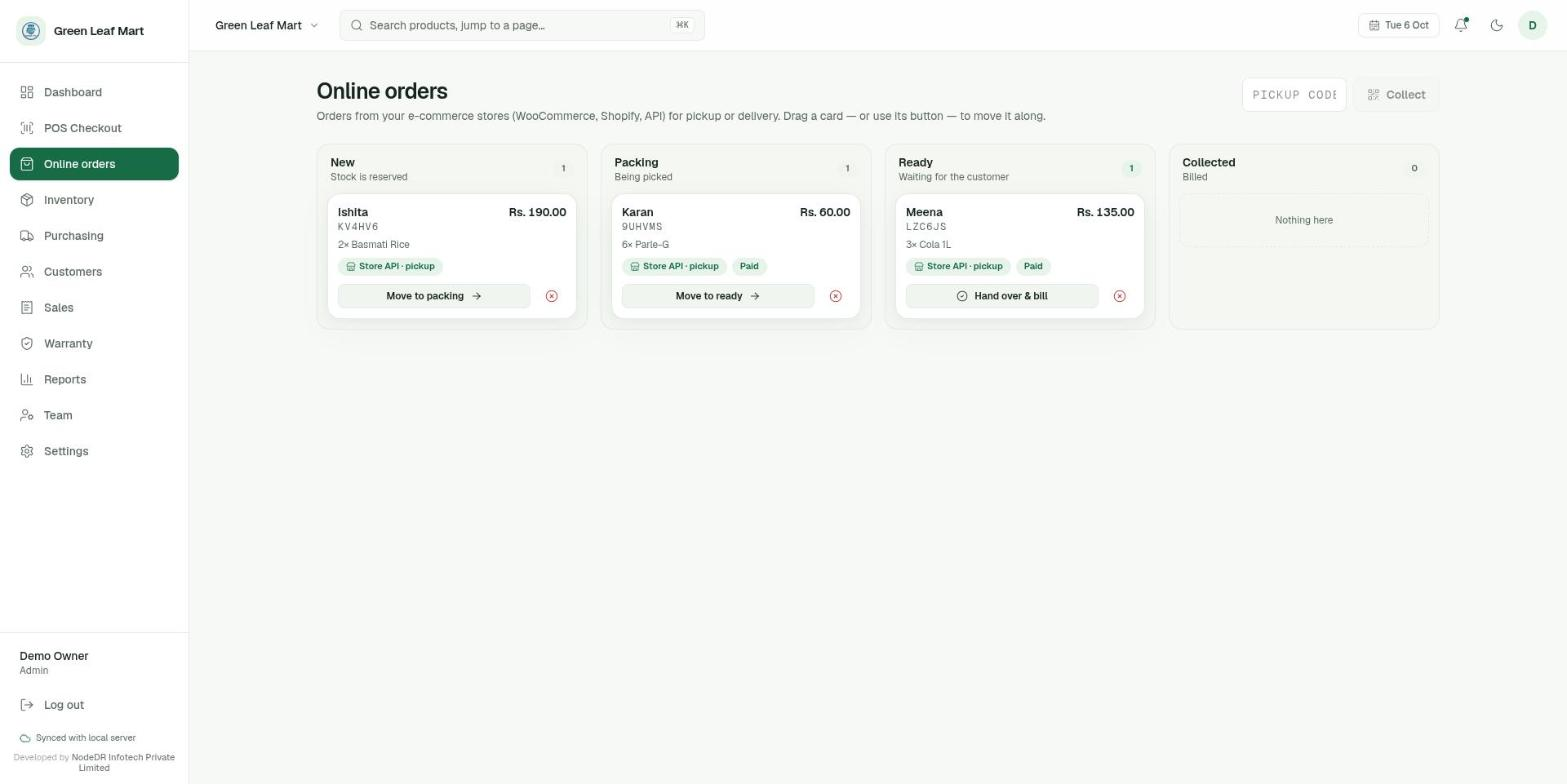
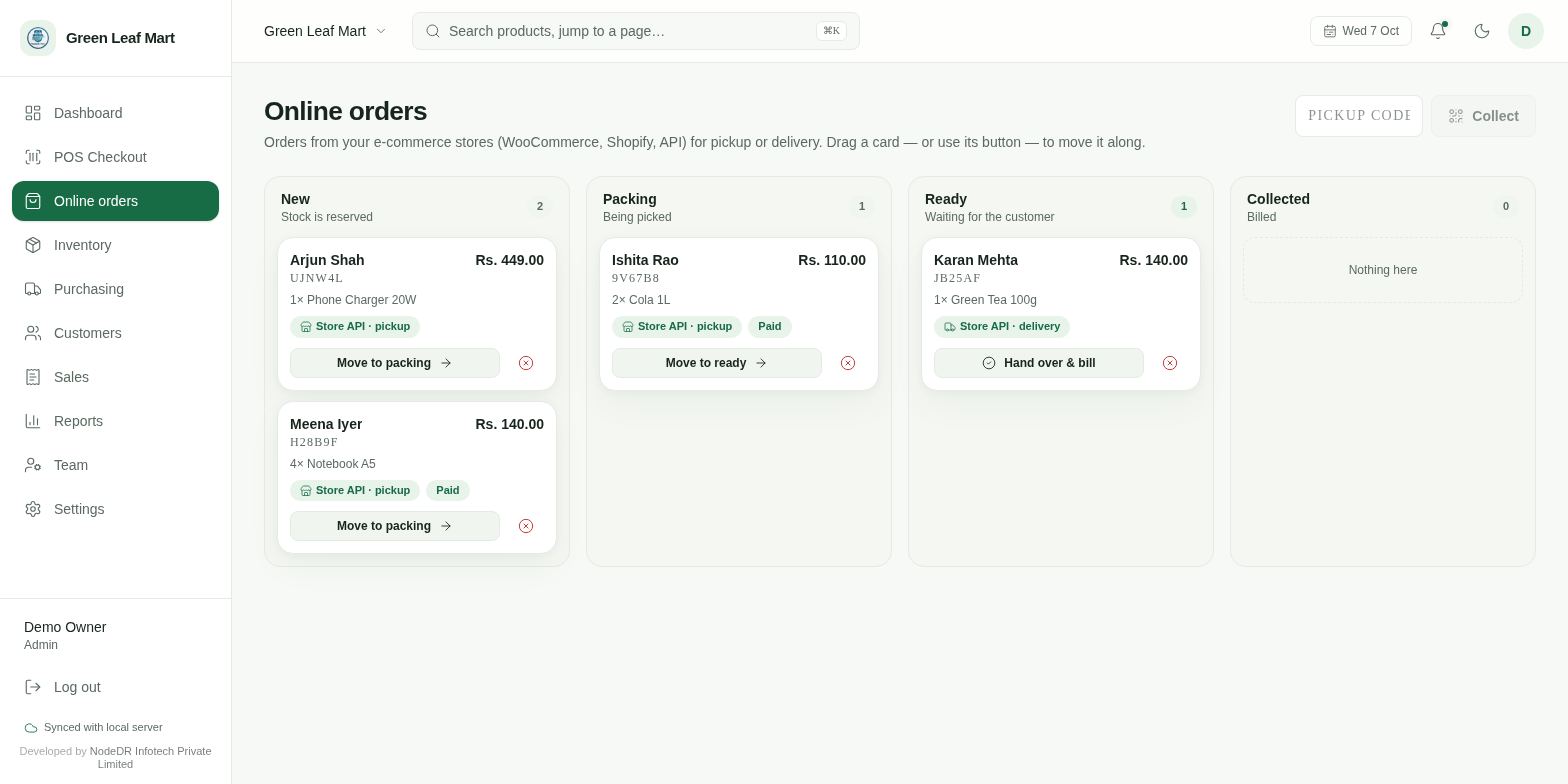
Add Hong Kong dollar; remove dashboard register timer; push online-order status changes to the store (webhook retries, WooCommerce/Shopify status push, order polling); retake screenshots

diff --git a/backend/src/lib/orders.js b/backend/src/lib/orders.js
@@ -35,7 +35,7 @@ async function reservedByProduct(tx, productIds) {
 
 /** items: [{ productId, quantity }] — prices always come from the catalog. */
 async function createOrder(input) {
-  const { channel, externalId = null, fulfilment = 'PICKUP', customer = {}, items, note = null, paid = false, paymentRef = null, apiKeyId = null } = input;
+  const { channel, externalId = null, fulfilment = 'PICKUP', customer = {}, items, note = null, paid = false, paymentRef = null, apiKeyId = null, integrationId = null } = input;
   if (!items?.length) throw err('Order has no items');
 
   return prisma.$transaction(async (tx) => {
@@ -61,7 +61,7 @@ async function createOrder(input) {
     const total = round2(lines.reduce((s, l) => s + l.price * l.quantity, 0));
     const order = await tx.order.create({
       data: {
-        channel, externalId, fulfilment, pickupCode: pickupCode(), note, paid, paymentRef, apiKeyId, total,
+        channel, externalId, fulfilment, pickupCode: pickupCode(), note, paid, paymentRef, apiKeyId, integrationId, total,
         customerName: customer.name || 'Online Customer', customerPhone: customer.phone || null, customerEmail: customer.email || null,
         items: { create: lines },
       },
@@ -69,16 +69,27 @@ async function createOrder(input) {
     });
     return { order, deduplicated: false };
   }).then((out) => {
-    if (!out.deduplicated) notifyEvent('order.created', publicOrder(out.order), { apiKeyId: out.order.apiKeyId });
+    if (!out.deduplicated) emitOrderEvent('order.created', out.order, null);
     return out;
   });
+}
+
+// One place every status change goes through: tell the API-key owner (signed
+// webhook) and push the new status to the originating WooCommerce/Shopify
+// store. Both are fire-and-forget — the till never waits on a storefront.
+function emitOrderEvent(event, order, previousStatus) {
+  const data = { ...publicOrder(order), previousStatus };
+  notifyEvent(event, data, { apiKeyId: order.apiKeyId });
+  if (order.integrationId && event === 'order.updated') {
+    require('./stores').pushOrderStatus(order).catch((e) => console.error(`order status push to store failed (order ${order.id}): ${e.message}`));
+  }
 }
 
 function publicOrder(o) {
   return {
     id: o.id, channel: o.channel, externalId: o.externalId, status: o.status, fulfilment: o.fulfilment,
     pickupCode: o.pickupCode, customerName: o.customerName, customerPhone: o.customerPhone, total: o.total, paid: o.paid,
-    invoiceId: o.invoiceId, createdAt: o.createdAt,
+    invoiceId: o.invoiceId, createdAt: o.createdAt, updatedAt: o.updatedAt,
     items: (o.items || []).map((i) => ({ productId: i.productId, name: i.name, quantity: i.quantity, price: i.price })),
   };
 }
@@ -88,7 +99,7 @@ async function setStatus(id, status) {
   if (!o) throw err('Order not found', 404);
   if (!(NEXT[o.status] || []).includes(status)) throw err(`Cannot move an order from ${o.status} to ${status}`, 409);
   const updated = await prisma.order.update({ where: { id }, data: { status }, include: { items: true } });
-  notifyEvent('order.updated', publicOrder(updated), { apiKeyId: updated.apiKeyId });
+  emitOrderEvent('order.updated', updated, o.status);
   return updated;
 }
 
@@ -130,7 +141,7 @@ async function billClaimedOrder(o, { paymentMethod, amountPaid, serials, user })
   // Idempotent per order: a double-click can't bill twice.
   const { invoice } = await performCheckout(body, { source: 'ORDER', cashierName: user?.name, user, apiKeyId: null });
   const updated = await prisma.order.update({ where: { id }, data: { status: 'COLLECTED', invoiceId: invoice.id }, include: { items: true } });
-  notifyEvent('order.updated', publicOrder(updated), { apiKeyId: updated.apiKeyId });
+  emitOrderEvent('order.updated', updated, o.status);
   return { order: updated, invoice };
 }
 

diff --git a/backend/src/lib/stores.js b/backend/src/lib/stores.js
@@ -95,6 +95,7 @@ async function ingest(integration, payload) {
     items,
     note,
     paid: n.paid,
+    integrationId: integration.id,
   });
   return { order, deduplicated };
 }
@@ -169,4 +170,38 @@ async function flush() {
   }
 }
 
-module.exports = { SCHEMES, newWebhookSecret, verifySignature, normalize, ingest, pushStock, encrypt, decrypt };
+// ---------------- outbound order-status push ----------------
+// Keeps the storefront's order in step when the shop moves it on the Orders
+// board. Written against the platforms' public docs; not run on a live store.
+const WOO_STATUS = { PACKING: 'processing', READY: 'processing', COLLECTED: 'completed', CANCELLED: 'cancelled' };
+const READY_NOTE = (o) => `Ready for ${o.fulfilment === 'DELIVERY' ? 'dispatch' : 'pickup'} — code ${o.pickupCode}`;
+
+async function pushOrderStatus(order) {
+  if (!order.integrationId || !order.externalId) return;
+  const it = await prisma.integration.findUnique({ where: { id: order.integrationId } });
+  if (!it || !it.active) return;
+  const cfg = decryptJson(it.configEnc);
+  if (!cfg) return;
+  if (it.platform === 'woocommerce' && cfg.baseUrl) {
+    const base = cfg.baseUrl.replace(/\/$/, '');
+    const headers = { Authorization: 'Basic ' + Buffer.from(`${cfg.consumerKey}:${cfg.consumerSecret}`).toString('base64'), 'Content-Type': 'application/json' };
+    const status = WOO_STATUS[order.status];
+    if (status) await basicFetch(`${base}/wp-json/wc/v3/orders/${encodeURIComponent(order.externalId)}`, { method: 'PUT', headers, body: JSON.stringify({ status }) });
+    const note = order.status === 'READY' ? READY_NOTE(order) : order.status === 'PACKING' ? 'Your order is being packed' : null;
+    if (note) await basicFetch(`${base}/wp-json/wc/v3/orders/${encodeURIComponent(order.externalId)}/notes`, { method: 'POST', headers, body: JSON.stringify({ note, customer_note: true }) });
+  }
+  if (it.platform === 'shopify' && cfg.shopDomain) {
+    const url = `https://${cfg.shopDomain}/admin/api/2024-10/graphql.json`;
+    const headers = { 'X-Shopify-Access-Token': cfg.accessToken, 'Content-Type': 'application/json' };
+    const id = `gid://shopify/Order/${order.externalId}`;
+    if (order.status === 'CANCELLED') {
+      await basicFetch(url, { method: 'POST', headers, body: JSON.stringify({ query: `mutation($id:ID!){orderCancel(orderId:$id,reason:OTHER,refund:false,restock:false){userErrors{message}}}`, variables: { id } }) });
+    } else {
+      // Shopify has no "ready for pickup" order status over this API; a tag the
+      // merchant can filter and automate on is the portable signal.
+      await basicFetch(url, { method: 'POST', headers, body: JSON.stringify({ query: `mutation($id:ID!,$t:[String!]!){tagsAdd(id:$id,tags:$t){userErrors{message}}}`, variables: { id, t: [`nodedr-${order.status.toLowerCase()}`] } }) });
+    }
+  }
+}
+
+module.exports = { pushOrderStatus, SCHEMES, newWebhookSecret, verifySignature, normalize, ingest, pushStock, encrypt, decrypt };

diff --git a/frontend/app/(app)/dashboard/page.tsx b/frontend/app/(app)/dashboard/page.tsx
@@ -8,7 +8,6 @@ import { useQuery } from "@tanstack/react-query";
 import { AlertTriangle, CircleDollarSign, Download, ShoppingBag, TrendingUp } from "lucide-react";
 import { Button } from "@/components/ui/Button";
 import { Badge, Delta, PageHeader } from "@/components/ui/Bits";
-import { ShiftTile } from "@/components/pos/ShiftWidget";
 import { useLowStock } from "@/hooks/useProducts";
 import { useInvoices, useSalesAnalytics, useSalesSummary } from "@/hooks/useInvoices";
 import { useDueSummary, useTopDueCustomers } from "@/hooks/useCustomers";
@@ -34,7 +33,7 @@ export default function DashboardPage() {
   const { data: dueSummary } = useDueSummary();
   const { data: topDue } = useTopDueCustomers(5);
   const wantsOrders = can(me, "orders");
-  const { data: orders } = useQuery({ queryKey: ["orders", "open"], queryFn: () => api.get<Order[]>("/orders?status=NEW,PACKING,READY"), enabled: wantsOrders, refetchInterval: 30_000 });
+  const { data: orders } = useQuery({ queryKey: ["orders", "open"], queryFn: () => api.get<Order[]>("/orders?status=NEW,PACKING,READY"), enabled: wantsOrders, refetchInterval: 15_000, refetchOnWindowFocus: true });
 
   // Franchisor accounts only have the consolidated hub views.
   useEffect(() => {
@@ -62,7 +61,7 @@ export default function DashboardPage() {
         actions={<a href="/api/invoices/export.csv" download><Button variant="secondary" type="button"><Download className="h-4 w-4" aria-hidden="true" /> Sales CSV</Button></a>}
       />
 
-      {/* Bento: short KPI tiles, a larger chart, a ring + the register timer, then lists. */}
+      {/* Bento: short KPI tiles, a larger chart, a ring, then lists. */}
       <div className="grid grid-cols-12 gap-4">
         <Kpi i={0} span="col-span-6 lg:col-span-3" accent icon={TrendingUp} label="Today's revenue" value={money(summary?.todaysRevenue ?? 0)} sub={revDelta != null && <span className="text-white/80">{revDelta >= 0 ? "▲" : "▼"} {Math.abs(revDelta)}% vs yesterday</span>} />
         <Kpi i={1} span="col-span-6 lg:col-span-3" icon={ShoppingBag} label="Today's bills" value={String(summary?.todaysCount ?? 0)} sub={salesDelta != null && <Delta value={salesDelta} />} />
@@ -100,7 +99,6 @@ export default function DashboardPage() {
               <p className="text-xs text-foreground-muted">of your usual daily revenue so far today</p>
             </div>
           </section>
-          <ShiftTile sym={sym} />
         </div>
 
         <ListCard i={6} span="lg:col-span-4" title="Low inventory" href="/inventory" empty={`All products are above ${lowStock?.threshold ?? 5}.`} rows={(lowStock?.products ?? []).slice(0, 6).map((p) => ({ k: p.id, a: p.name, b: p.barcode, end: <Badge tone="warn">{Math.round(p.stock * 1000) / 1000} left</Badge> }))} />

diff --git a/backend/src/routes/external.js b/backend/src/routes/external.js
@@ -243,6 +243,21 @@ router.post('/orders', requireApiKey({ scope: 'orders:write' }), async (req, res
   }
 });
 
+// Poll fallback for stores that can't take webhooks: own orders only, newest
+// first. ?status=NEW,READY&updatedSince=ISO&limit=100
+router.get('/orders', requireApiKey({ scope: 'orders:write' }), async (req, res) => {
+  const statuses = String(req.query.status || '').split(',').filter((x) => ['NEW', 'PACKING', 'READY', 'COLLECTED', 'CANCELLED'].includes(x));
+  const since = req.query.updatedSince ? new Date(String(req.query.updatedSince)) : null;
+  if (since && Number.isNaN(since.getTime())) return res.status(400).json({ error: 'updatedSince must be an ISO date' });
+  const list = await prisma.order.findMany({
+    where: { apiKeyId: req.apiKey.id, ...(statuses.length ? { status: { in: statuses } } : {}), ...(since ? { updatedAt: { gt: since } } : {}) },
+    include: { items: true },
+    orderBy: { updatedAt: 'desc' },
+    take: Math.min(Number(req.query.limit) || 100, 500),
+  });
+  res.json(list.map(orders.publicOrder));
+});
+
 async function findOwnOrder(req) {
   const ref = String(req.params.ref);
   return prisma.order.findFirst({ where: { apiKeyId: req.apiKey.id, OR: [{ externalId: ref }, ...(Number.isInteger(Number(ref)) ? [{ id: Number(ref) }] : [])] }, include: { items: true } });

diff --git a/backend/src/lib/webhooks.js b/backend/src/lib/webhooks.js
@@ -44,6 +44,21 @@ async function notifyStockChange(changes) {
   }
 }
 
+// Retries a few times with backoff so a storefront that is briefly down (deploy,
+// restart) still receives the status change. Runs in the background only.
+async function sendWithRetry(url, secret, payload, attempts = 4) {
+  let last;
+  for (let i = 0; i < attempts; i++) {
+    try {
+      return await sendOne(url, secret, payload);
+    } catch (err) {
+      last = err;
+      if (i < attempts - 1) await new Promise((r) => setTimeout(r, 2000 * 3 ** i).unref?.());
+    }
+  }
+  throw last;
+}
+
 async function sendOne(url, secret, payload) {
   const signature = crypto.createHmac('sha256', secret).update(payload).digest('hex');
   const res = await fetch(url, {
@@ -77,7 +92,7 @@ async function notifyEvent(event, data, { apiKeyId } = {}) {
   const payload = JSON.stringify({ event, timestamp: new Date().toISOString(), data });
   for (const t of targets) {
     if (!t.webhookUrl || !t.webhookSecret) continue;
-    sendOne(t.webhookUrl, t.webhookSecret, payload).catch((err) => console.error(`notifyEvent: delivery to "${t.name}" failed:`, err.message));
+    sendWithRetry(t.webhookUrl, t.webhookSecret, payload).catch((err) => console.error(`notifyEvent: delivery to "${t.name}" failed:`, err.message));
   }
 }
 

diff --git a/backend/test/api.test.js b/backend/test/api.test.js
@@ -318,6 +318,11 @@ test('orders: API order reserves stock, kanban status, collect bills it', async 
 
   const id = o.data.order.id;
   assert.equal((await admin.patch(`/api/orders/${id}/status`, { status: 'READY' })).status, 200);
+  // the store sees the new status by polling, too (webhooks are the push path)
+  const polled = await api.get('/api/external/orders?status=READY&updatedSince=2020-01-01T00:00:00Z', hdr);
+  assert.equal(polled.status, 200);
+  assert.equal(polled.data.find((x) => x.id === id)?.status, 'READY');
+  assert.equal((await api.get('/api/external/orders?updatedSince=nope', hdr)).status, 400);
   assert.equal((await admin.get(`/api/orders/by-code/${o.data.order.pickupCode}`)).data.id, id);
   const col = await admin.post(`/api/orders/${id}/collect`, { paymentMethod: 'UPI' });
   assert.equal(col.status, 200, JSON.stringify(col.data));

diff --git a/backend/src/lib/currency.js b/backend/src/lib/currency.js
@@ -11,6 +11,7 @@ const CURRENCIES = {
   AUD: { symbol: 'A$', label: 'Australian Dollar' },
   CAD: { symbol: 'C$', label: 'Canadian Dollar' },
   SGD: { symbol: 'S$', label: 'Singapore Dollar' },
+  HKD: { symbol: 'HK$', label: 'Hong Kong Dollar' },
   JPY: { symbol: '¥', label: 'Japanese Yen' },
   CNY: { symbol: '¥', label: 'Chinese Yuan' },
   CHF: { symbol: 'Fr.', label: 'Swiss Franc' },

diff --git a/docs/API.md b/docs/API.md
@@ -29,6 +29,7 @@ product). A product without a SKU is invisible to the API and MCP.
 | `GET /bills/:invoiceNumberOrExternalRef` | Only bills made with this key |
 | `GET /bills/:ref/pdf?layout=a4\|receipt` | PDF bill |
 | `POST /orders` | `{externalId, fulfilment, customer, items:[{sku,quantity}], paid, note}` → reserves stock, returns a `pickupCode`. Idempotent on `externalId` |
+| `GET /orders?status=NEW,READY&updatedSince=ISO&limit=100` | Poll your own orders — newest change first. Use it as a fallback or to catch up after downtime |
 | `GET /orders/:ref`, `POST /orders/:ref/cancel` | Own orders only |
 | `GET /warranty/:serial` | Product, sale date, warranty end, days left, history (buyer name/phone omitted) |
 
@@ -40,6 +41,18 @@ open — share it with the customer.
 HMAC-SHA256 of the raw body in `X-Nodedr-Signature: sha256=<hex>`.
 `stock.updated` (linked products), and — **only to the key that owns the
 order** — `order.created` / `order.updated`.
+
+Every status change made on the Orders board (packing, ready, collected,
+cancelled) fires `order.updated` with the full order plus `previousStatus`, so
+your storefront can flip its own order and tell the customer. Delivery is
+retried 4 times (2 s, 6 s, 18 s apart); after that, `GET /orders?updatedSince=`
+catches you up.
+
+```json
+{ "event": "order.updated", "timestamp": "2026-10-07T09:30:00.000Z",
+  "data": { "id": 41, "externalId": "web-1001", "status": "READY", "previousStatus": "PACKING",
+            "pickupCode": "K7M2QX", "total": 540, "paid": true, "updatedAt": "…", "items": [ … ] } }
+```
 
 ## MCP
 
@@ -62,3 +75,8 @@ money rules are identical.
 Settings → Online stores → Connect. You get a webhook URL and a signing secret
 (shown once). Orders become click-and-collect/delivery orders matched by SKU.
 Stock changes here are pushed back (debounced, one call per SKU per ~2.5 s).
+**Order status is pushed back too:** WooCommerce orders are set to
+`processing` / `completed` / `cancelled` and get a customer note with the
+pickup code when ready; Shopify orders get a `nodedr-packing` / `nodedr-ready` /
+`nodedr-collected` tag (and are cancelled when cancelled here). Needs the
+store's outbound credentials saved on the integration.

diff --git a/README.md b/README.md
@@ -249,7 +249,7 @@ Security review: [docs/SECURITY-AUDIT.md](docs/SECURITY-AUDIT.md).
   shop's counter machine also runs it unmodified on any VPS/cloud
   provider, if you'd rather manage it remotely or across locations. See
   [Where to run it](#where-to-run-it).
-- **Multi-currency** — over 20 major currencies (₹ INR, $ USD, € EUR, £ GBP,
+- **Multi-currency** — over 20 major currencies (₹ INR, $ USD, € EUR, £ GBP, HK$ HKD,
   and more), switchable in settings; the symbol flows through the whole app
   and onto receipts. One source of truth on the backend
   ([`backend/src/lib/currency.js`](backend/src/lib/currency.js)) so
